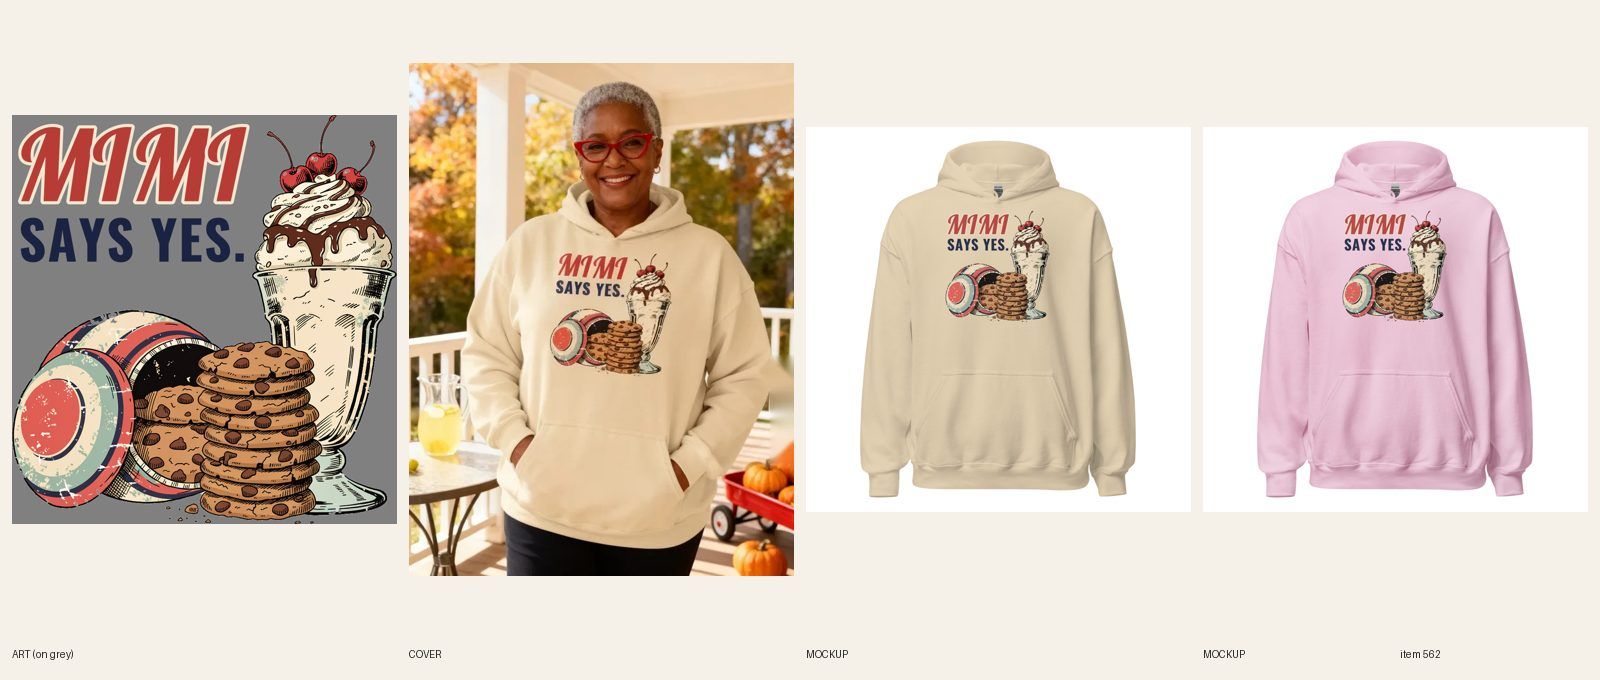
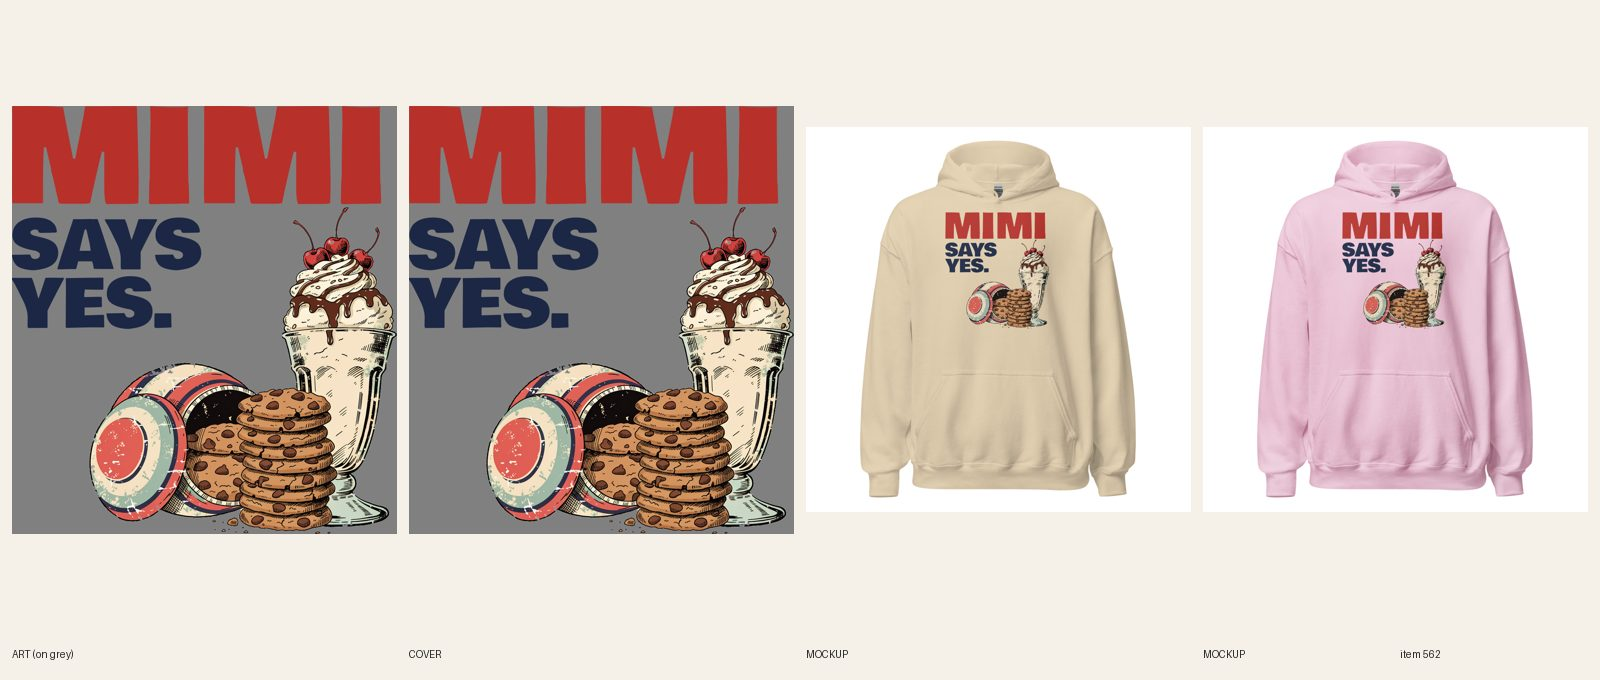
[C] review 562 Women's Mimi Says Yes hoodie (type redo)
Claude-Session: https://claude.ai/code/session_01XeHDvyNAUHwFEgSVa6ZTiM

Changed region(s): [[0.0, 0.0926, 0.5, 0.8647], [0.8125, 0.3088, 0.9062, 0.4941], [0.5938, 0.3088, 0.6562, 0.4941]]

diff --git a/designs/c562/build2.py b/designs/c562/build2.py
@@ -1,0 +1,32 @@
+#!/usr/bin/env python3
+"""#562 v2: MIMI heavy full width on top; art scaled to R, right aligned, pulled up under it; SAYS YES. in the art's empty upper-left void.
+usage: build2.py <src.png> <out.png> [R] [Wsays] [lift]"""
+import sys
+from PIL import Image, ImageDraw, ImageFont
+src, out = sys.argv[1:3]; R = float(sys.argv[3]); WS = float(sys.argv[4]); LIFT = int(sys.argv[5])
+a = Image.open(src).convert('RGBA'); L = a.width
+ImageDraw.Draw(a).rectangle((0, 0, 1625, 1235), fill=(0, 0, 0, 0))
+art = a.crop(a.getbbox()); art = art.resize((int(art.width * R), int(art.height * R)), Image.LANCZOS)
+f = 'designs/fonts/BowlbyOne-Regular.ttf'
+def line(txt, fill, w):
+    size = 900
+    while True:
+        ft = ImageFont.truetype(f, size); bb = ft.getbbox(txt)
+        if bb[2] - bb[0] <= w: break
+        size -= 4
+    im = Image.new('RGBA', (bb[2] + 40, bb[3] + 40), (0, 0, 0, 0)); ImageDraw.Draw(im).text((10, 10), txt, font=ft, fill=fill)
+    return im.crop(im.getbbox())
+h1 = line('MIMI', '#b8302a', L)
+sa = line('SAYS', '#1b2745', int(L * WS)); ye = line('YES.', '#1b2745', int(L * WS))
+sc = min(1, sa.width / max(sa.width, 1))
+# same type size for both lines: scale YES. by the SAYS height ratio
+ye = line('YES.', '#1b2745', int(L * WS * 10)) ; k = sa.height / ye.height; ye = ye.resize((int(ye.width * k), sa.height), Image.LANCZOS)
+s1 = Image.new('RGBA', (max(sa.width, ye.width), sa.height * 2 + 40), (0, 0, 0, 0)); s1.alpha_composite(sa, (0, 0)); s1.alpha_composite(ye, (0, sa.height + 40))
+H = h1.height; gap = 60
+artY = H + gap - LIFT
+c = Image.new('RGBA', (L, artY + art.height), (0, 0, 0, 0))
+c.alpha_composite(art, (L - art.width, artY))
+c.alpha_composite(h1, (0, 0))
+c.alpha_composite(s1, (0, H + gap + 30))
+c = c.crop(c.getbbox()); c.save(out, dpi=(300, 300))
+print(out, c.size, 'aspect %.2f' % (c.height / c.width), 'MIMI h', H, 'says h', s1.height, 'says w', s1.width, 'ratio %.2f' % (s1.height / H))

diff --git a/designs/c562/build.py b/designs/c562/build.py
@@ -1,0 +1,36 @@
+#!/usr/bin/env python3
+"""#562 hoodie: type-only redo. Art from docs/print-files/562-mimi-says-yes-hoodie.png with the old upper-left text erased.
+One full-width heavy line MIMI (red) SAYS YES. (navy) in Bowlby One above the art, art scaled to R x width.
+usage: build.py <src.png> <out.png> [R]"""
+import sys
+from PIL import Image, ImageDraw, ImageFont
+src, out = sys.argv[1:3]; R = float(sys.argv[3]) if len(sys.argv) > 3 else 0.80
+a = Image.open(src).convert('RGBA')
+d = ImageDraw.Draw(a); d.rectangle((0, 0, 1625, 1235), fill=(0, 0, 0, 0))
+art = a.crop(a.getbbox()); L = a.width
+art = art.resize((int(L * R), int(art.height * R)), Image.LANCZOS)
+f = 'designs/fonts/BowlbyOne-Regular.ttf'
+def fit(txt, w):
+    s = 500
+    while True:
+        ft = ImageFont.truetype(f, s); bb = ft.getbbox(txt)
+        if bb[2] - bb[0] <= w: return ft, bb
+        s -= 4
+def line(txt, fill, w):
+    size = 900
+    while True:
+        ft = ImageFont.truetype(f, size); bb = ft.getbbox(txt)
+        if bb[2] - bb[0] <= w: break
+        size -= 4
+    im = Image.new('RGBA', (bb[2] + 40, bb[3] + 40), (0, 0, 0, 0)); ImageDraw.Draw(im).text((10, 10), txt, font=ft, fill=fill)
+    return im.crop(im.getbbox())
+h1 = line('MIMI', '#b8302a', L); h2 = line('SAYS YES.', '#1b2745', L)
+h = Image.new('RGBA', (L, h1.height + 45 + h2.height), (0, 0, 0, 0))
+h.alpha_composite(h1.resize((L, h1.height)) if h1.width != L else h1, (0, 0)); h.alpha_composite(h2, ((L - h2.width) // 2, h1.height + 45))
+size = 0
+g = 50
+c = Image.new('RGBA', (L, h.height + g + art.height), (0, 0, 0, 0))
+c.alpha_composite(h.resize((L, int(h.height * L / h.width))) if h.width != L else h, (0, 0))
+c.alpha_composite(art, ((L - art.width) // 2, h.height + g))
+c = c.crop(c.getbbox()); c.save(out, dpi=(300, 300))
+print(out, c.size, 'aspect %.2f' % (c.height / c.width), 'size', size, 'headline h', h.height)

diff --git a/docs/pipeline/562-mimi-hoodie-mimi-says-yes.md b/docs/pipeline/562-mimi-hoodie-mimi-says-yes.md
@@ -1,4 +1,4 @@
-status: BUILDING [C] 2026-10-19 19:35
+status: REVIEW
 shopify: gid://shopify/Product/15364779704624
 lane: C
 type: twin
@@ -28,3 +28,4 @@ kd: 17
 - 2026-10-18 06:10 UTC builder [C]: Printful relink verified 12/12 on file 1088722676; REVIEW.
 - 2026-10-18 06:14 UTC director: LIVE. Sheet reviewed (R3/R4/R5/R6/R8/R13.3 pass), ACTIVE + published to Online Store, My Store Headless, Google & YouTube; cohesion-audit --handle PASS 0 warn.
 - 2026-10-18 17:22 UTC director: QUALITY RESET grade B (type only), REDO. The product stays ACTIVE (same handle, URL, title keyword). Keep the line "MIMI / SAYS YES." and the art. 1. Type: line works; MIMI headline about 60% width, SAYS YES smaller still, art pushed right. 2. Quality reset type bar (docs/backlog/quality-reset.md, 'The new bar'): headline at least 90% of the art width, heavy, colors pulled from the art; second line at least 45% of the headline's height, never a thin script on a dark or mid garment; use the lettering as a shape (arch, stacked lockup, words breaking into the art), not a plain bar above and a script line below; no font used on more than 1 in 6 of the last 30 designs. 3. New print file means a new cover per R6.10 and a fresh review sheet (R7.7). While quality-reset.md says PAUSED, only lane A builds, and only the samples step 2 names.
+- 2026-10-19 19:58 UTC builder [C]: REDO 562 type only (B grade). designs/c562/build2.py: same cookie jar/stack/sundae art (old upper-left text erased), MIMI in Bowlby One red at full art width (headline), SAYS / YES. stacked in navy at the same size in the art's empty upper-left void (second line 113% of headline height, heavy); art scaled to 80% and right-aligned; aspect 1.11. Colors pulled from the art (red, navy). Printful file 1089778631 (docs/print-files/562-mimi-says-yes-heavy.png), FW 1500 TOP 20; Sand + Light Pink only, dark ink on light fleece, no cream fill so no light file needed (R5.3.8 n/a). Relinked 12/12. 2 fronts replaced in place (fileUpdate with the real mockup URLs; a placeholder URL was sent once by mistake for ~1 minute on the Sand image, then corrected). Phone-size read: MIMI SAYS YES. clear on both, print ends above pouch. Copy: story, FAQ 1 updated. Plain product shot (handle in retired-covers.json). audit --handle PASS 0 warn. fal $0. Sheet docs/review/562.jpg.

diff --git a/docs/intake-log.md b/docs/intake-log.md
@@ -1,6 +1,6 @@
 RUNNING lane A since 2026-10-19 19:30 UTC
 RUNNING lane B since 2026-10-19 19:27 UTC
-RUNNING lane C since 2026-10-19 19:27 UTC
+2026-10-19 20:00 UTC — [C] Builder run: redid #562 Women's Mimi Says Yes hoodie (type only: MIMI full-width heavy red Bowlby + SAYS / YES. stacked navy in the art void, same art at 80%, FW 1500 TOP 20, file 1089778631, 12/12 relinked, 2 fronts replaced in place, copy updated, plain product shot). REVIEW. fal $0. 1 redo per run cap reached. Lock released.
 RUNNING lane E since 2026-10-19 19:15 UTC
 2026-10-19 19:26 UTC — [E] Builder run: redid #556 Men's Golf I Play Army Golf tee (type only: Bowlby One orange LEFT. RIGHT. LEFT. + Bevan green I PLAY ARMY GOLF. at full art width, same art, FW 1650, file 1089766424, 40/40 resynced, 6 fronts replaced in place, plain product shot). REVIEW. fal $0.
 2026-10-19 19:42 UTC — [D] Director run (RESUMED). Inbox: nothing new since the 17:55 note. Reviewed 11 sheets: the 4 held A items and 7 new type redos (#276 #555 #560 #614 #625 #512 #460), all at the new type bar side by side with 493 and 483/479. LIVE 6 (cap): #582 #633 #651 #653 (set ACTIVE + Online Store, Headless, Google & YouTube) and #276 #555 (already ACTIVE). Audit --handle PASS 0 warn on all 6. Shopify copy fixes: #555 Story still described the old lowercase script line; #560 and #512 line one had R8.3 openers ('one of the funny white elephant gifts', 'don't get more honest than this'); builder card 7g added for the opener check. Approved and held at REVIEW: #560 #614 #625 #512 #460 and the 31 add-ons. No REDO. READY: A 12, B 12, C 12 (E 5; REDO backlog 173), so no new briefs. No Telegram (midday digest went at 12:20; nothing needs Sam). Lock released.
